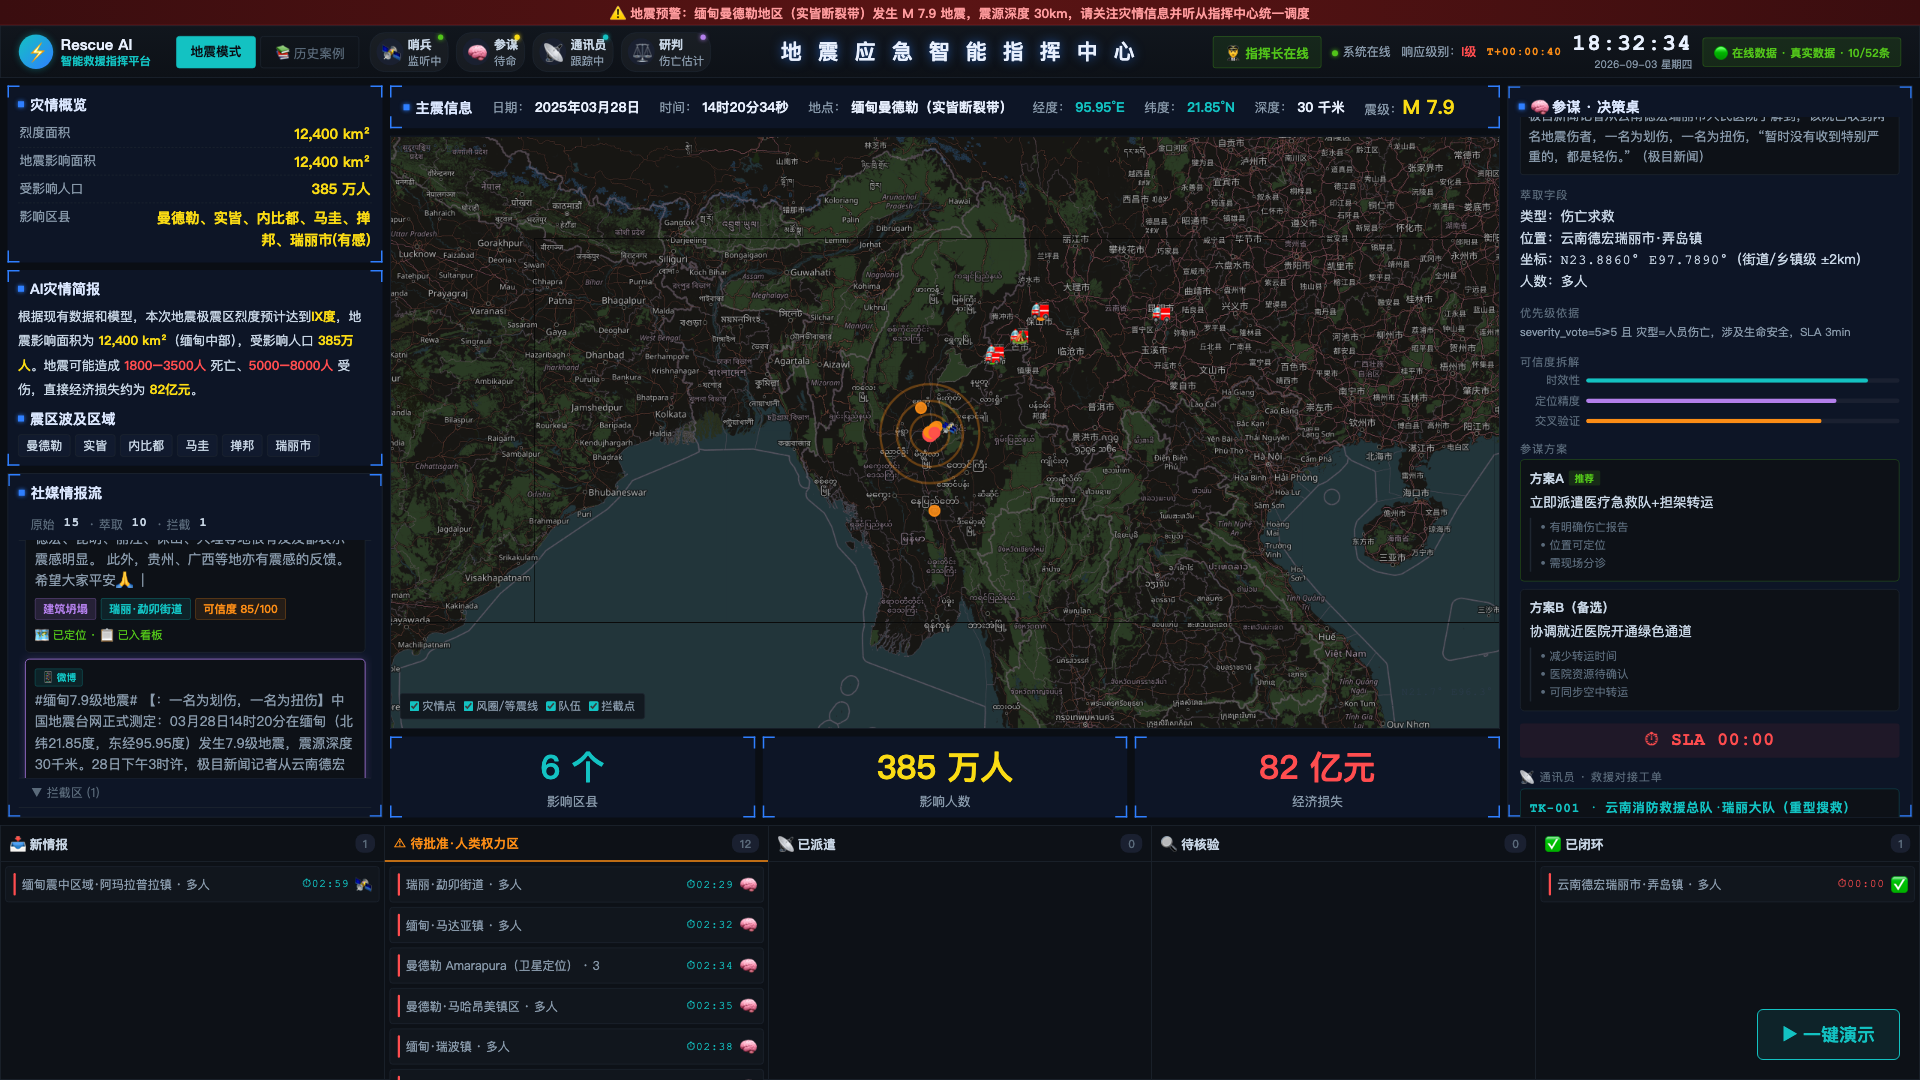
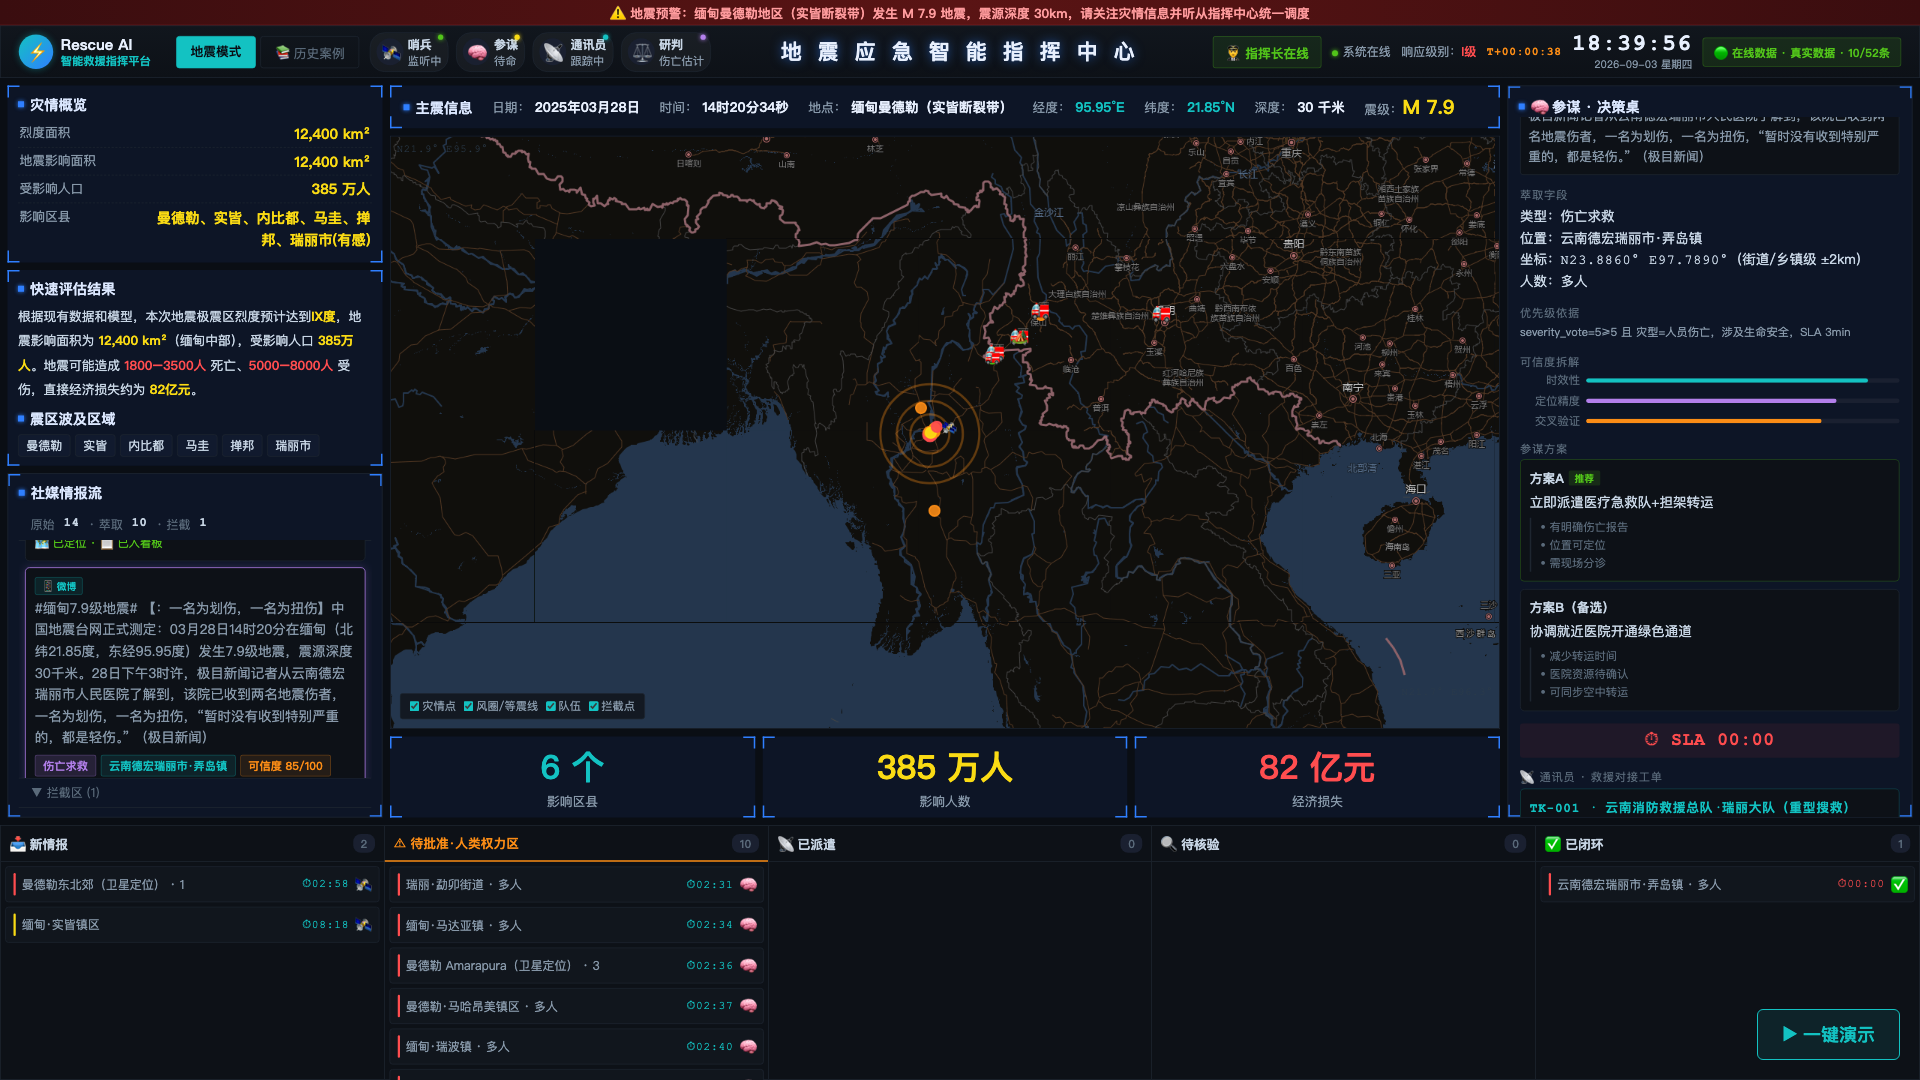
fix(复赛大屏): 母版对齐线上最终版（快速评估结果命名 + 缅甸真实点位），三套验收 20/20+23/23+13/13 全绿

diff --git a/GOAI复赛/rescueai-dashboard.html b/GOAI复赛/rescueai-dashboard.html
@@ -415,7 +415,7 @@ html,body{width:100%;height:100%;overflow:hidden;background:#050810;font-family:
   </div>
 </div>
 
-<!-- ===== 左栏：灾情概览 + AI灾情简报 + 社媒情报流 ===== -->
+<!-- ===== 左栏：灾情概览 + 快速评估结果 + 社媒情报流 ===== -->
 <div id="leftcol">
   <div class="side-panel brk">
     <div class="sec-title">灾情概览</div>
@@ -425,7 +425,7 @@ html,body{width:100%;height:100%;overflow:hidden;background:#050810;font-family:
     <div class="impact-row"><span>影响区县</span><b style="text-align:right;max-width:300px;white-space:normal;line-height:1.5;">曼德勒、实皆、内比都、马圭、掸邦、瑞丽市(有感)</b></div>
   </div>
   <div class="side-panel brk">
-    <div class="sec-title">AI灾情简报</div>
+    <div class="sec-title">快速评估结果</div>
     <div style="font-size:17px;color:#c8d6e5;line-height:1.9;">根据现有数据和模型，本次地震极震区烈度预计达到<b style="color:#fadb14;">IX度</b>，地震影响面积为 <b style="color:#fadb14;">12,400 km²</b>（缅甸中部），受影响人口 <b style="color:#fadb14;">385万人</b>。地震可能造成 <b style="color:#ff4d4f;">1800–3500人</b> 死亡、<b style="color:#ff4d4f;">5000–8000人</b> 受伤，直接经济损失约为 <b style="color:#fadb14;">82亿元</b>。</div>
     <div class="sec-title" style="margin-top:10px;">震区波及区域</div>
     <div class="impact-chips"><span>曼德勒</span><span>实皆</span><span>内比都</span><span>马圭</span><span>掸邦</span><span>瑞丽市</span></div>
@@ -849,7 +849,7 @@ function openCases() {
 }
 function closeCases() { document.getElementById('cases-modal').classList.remove('open'); }
 
-/** AI灾情简报：基于当前状态自动生成（每15s + 关键事件触发） */
+/** 快速评估结果：基于当前状态自动生成（每15s + 关键事件触发） */
 function genBrief() {
   const el = document.getElementById('brief-card');
   if (!el) return;
